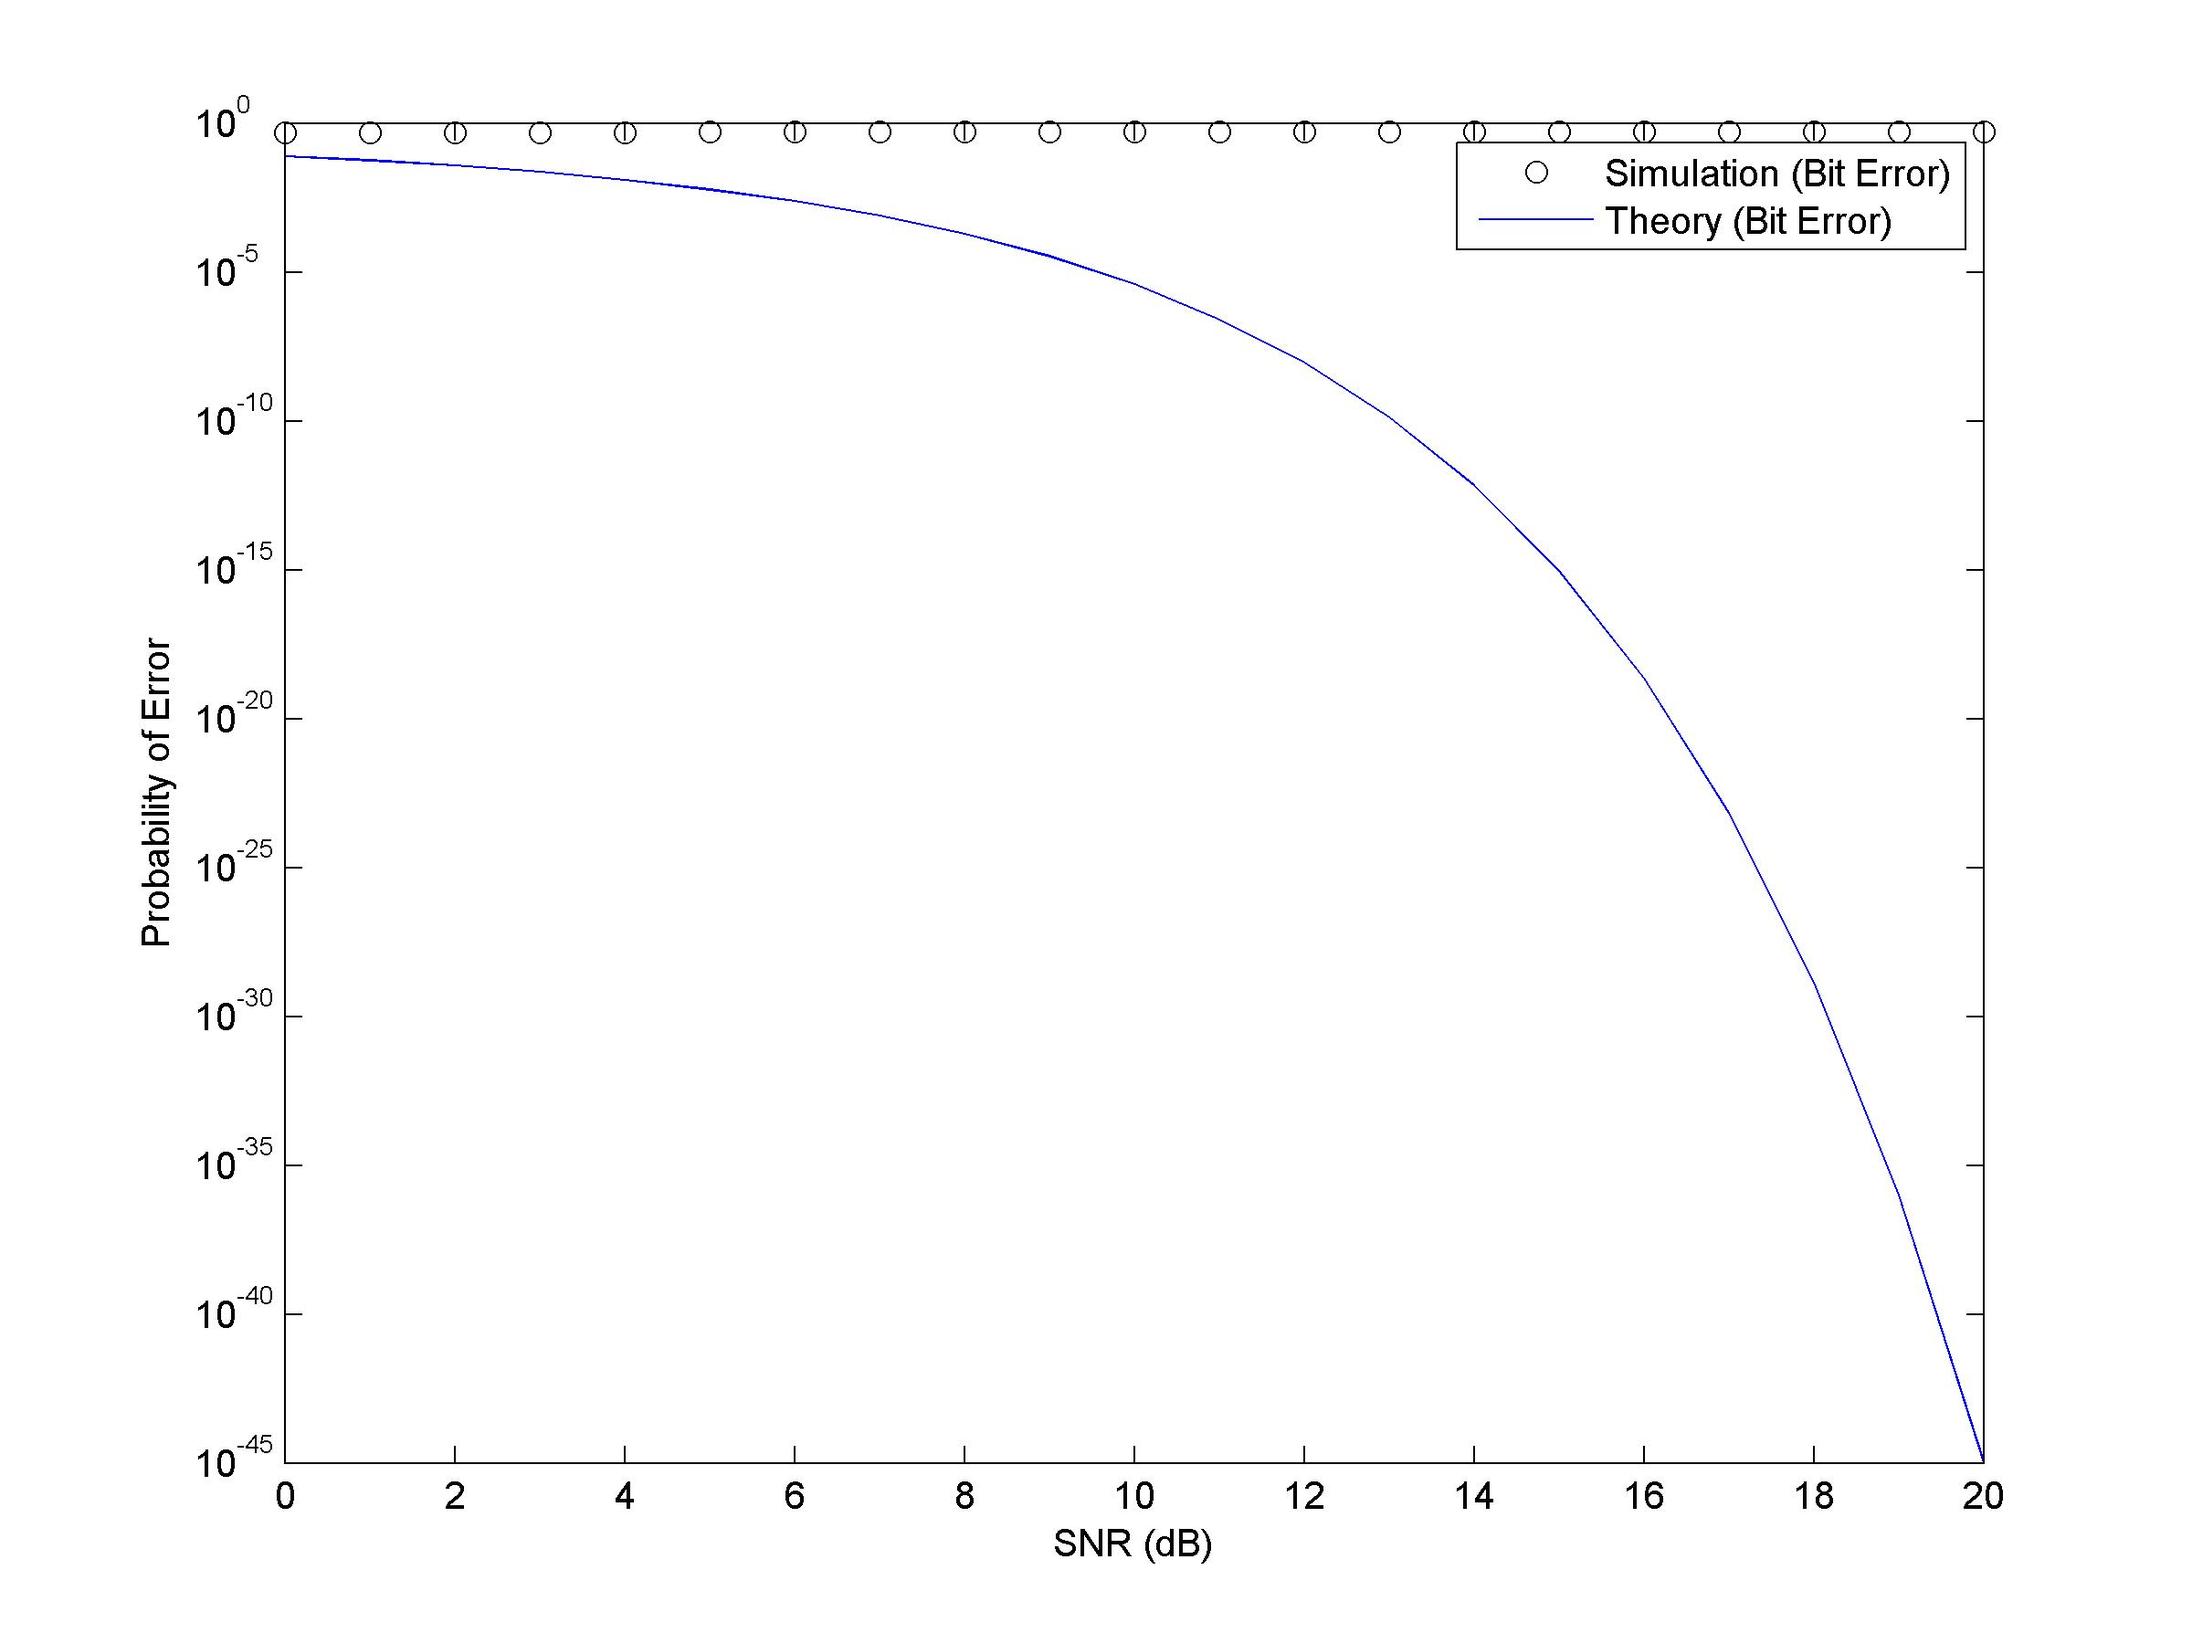
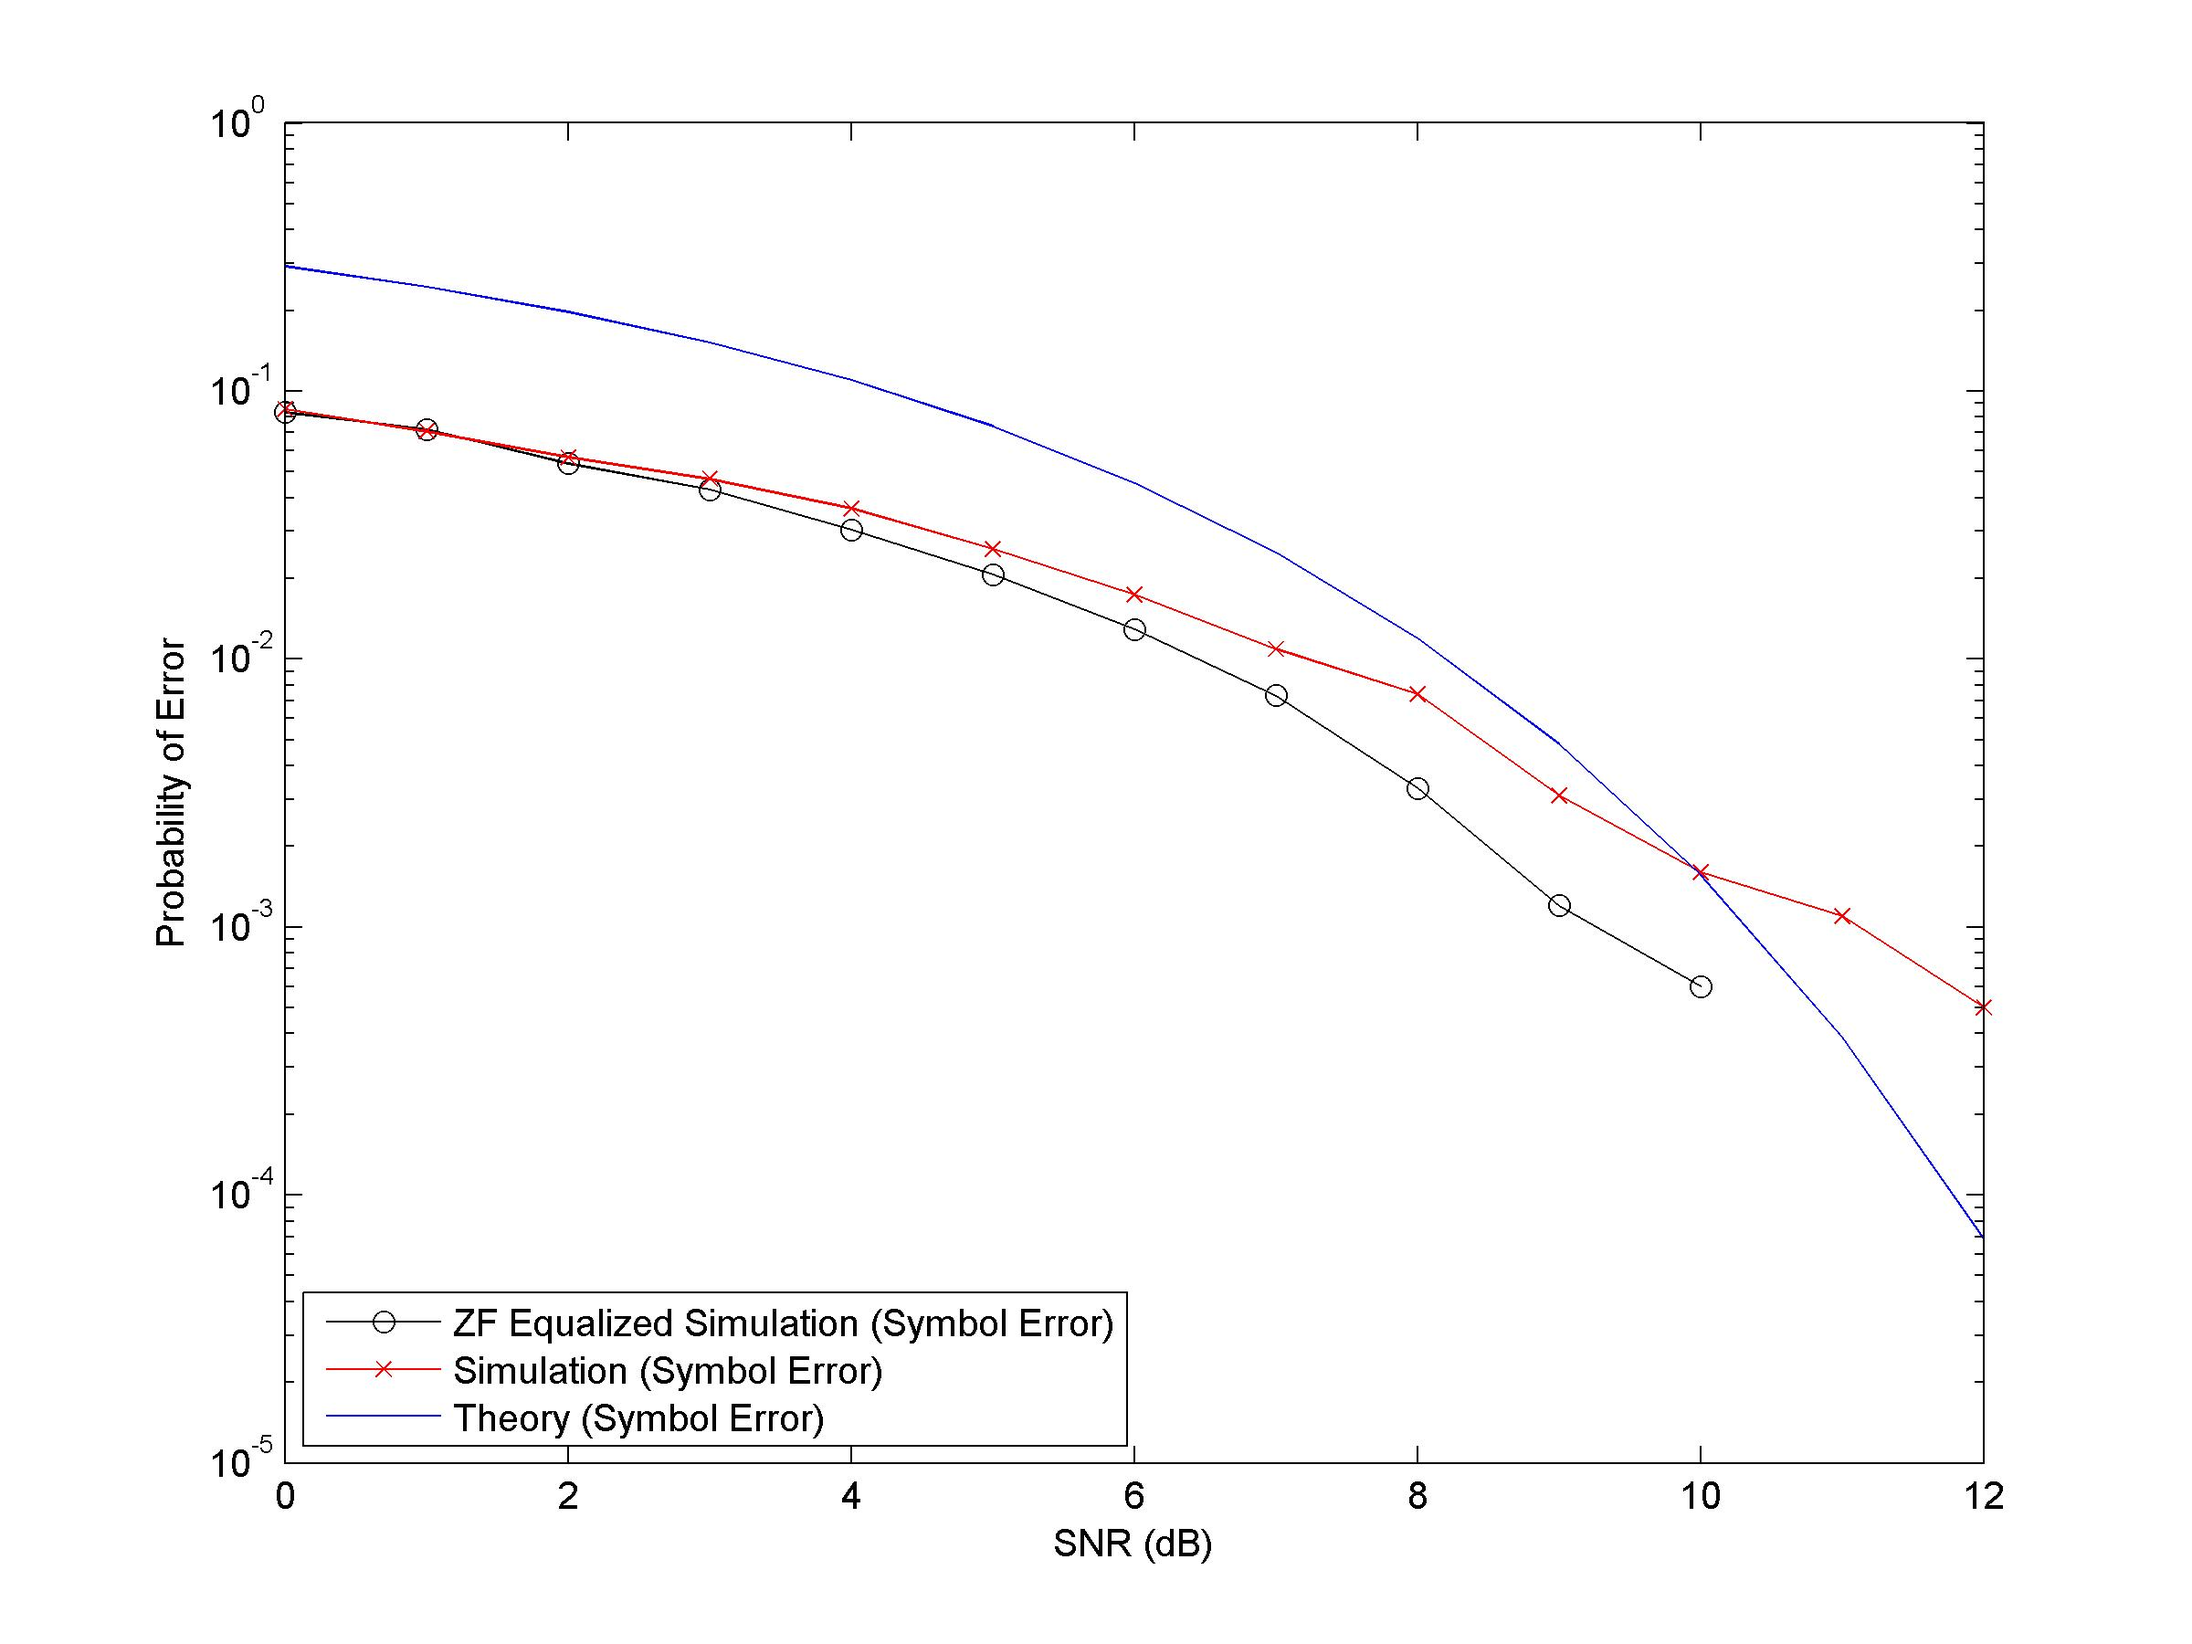
-

diff --git a/step5/step5_sim_qpsk.m b/step5/step5_sim_qpsk.m
@@ -11,9 +11,10 @@ B = rollOffFactor*(1/(2*Ts)) + 1/(2*Ts); %srrc pulse bandwidth
 srrc = sqrt_raised_cosine(overSampleSize,rollOffFactor,400,Ts);
 SNR = 0:20; %SNR levels where the system will be simulated
 EbN0 = SNR2EbN0(SNR,2,B); %convert given SNR levels to EbNo
-N= 10000;  %number of bits generated
+N= 20000;  %number of bits generated
 t=0:1/overSampleSize:N/2;
 k = 2;  % bits per symbol
+t_channel=0:1/overSampleSize:N;
 bits = random_bit_generator(N);  %random bit generation
 [quadrature, inphase] = qpsk_mod(bits,N/k);  %mapping to symbols
 
@@ -37,33 +38,60 @@ for k=1:3
     num = 1;
     if k==1
         %channel 1
-        transmit_channel = channel_1(transmit,overSampleSize);
+         h = [1 0 0 0 0.25];
+        transmit_channel = bandlimited_channel(h,transmit);
+        transmit_channel = transmit_channel(1:length(transmit_channel)-4);
         figure(1)
-        plot(t(1:100),real(transmit_channel(1:100)),'g');
+        plot(t_channel(1:100),real(transmit_channel(1:100)),'g');
+        
+        %channel equalizers
+        %ZF
+        L = 9; % number of taps
+        c = ZFEqualizer(h,L,overSampleSize);   
     elseif k==2
-         %channel 2
-         transmit_channel = channel_2(transmit,overSampleSize);
+%channel 2
+        h=[1 0 0 0 -0.25 0 0 0 0.125];
+        transmit_channel = bandlimited_channel(h,transmit);
+        transmit_channel = transmit_channel(1:length(transmit_channel)-8);
         figure(1)
-        plot(t(1:100),real(transmit_channel(1:100)),'-ko');
+        plot(t_channel(1:100),real(transmit_channel(1:100)),'-ko');
+        
+        %channel equalizers
+        %ZF
+        L = 9; % number of taps
+        c = ZFEqualizer(h,L,overSampleSize);
     else
-       %channel 3
-        transmit_channel = channel_3(transmit,overSampleSize);
+  %channel 3
+        h=[0.1 0 0 0 1 0 0 0 -0.25];
+        transmit_channel = bandlimited_channel(h,transmit);
+        transmit_channel = transmit_channel(5:length(transmit_channel)-4);
         figure(1)
-        plot(t(1:100),real(transmit_channel(1:100)),'-bx');
+        plot(t_channel(1:100),real(transmit_channel(1:100)),'-bx');
+        
+        %channel equalizers
+        %ZF
+        L = 9; % number of taps
+        c = ZFEqualizer(h,L,overSampleSize);
     end
     
     f = figure;
     
     for i=1:length(SNR)
+          
         %pass the signals to be transmitted through awgn channel
-        received = awgn_complex_channel(transmit_channel,SNR(i),S);        
+        received = awgn_complex_channel(transmit_channel,SNR(i),S);
+
+        %equalize channel
+        received_equalized = conv(received,c);
+        
         %pass the received signal through the matched filter for optimal
         %detection
-        matched_output = conv(received,srrc,'same');
-        
+        matched_output = conv(received_equalized,srrc,'same');
+        matched_output_ne = conv(received,srrc,'same');
         %pass the matched filter output through the sampler to obtain symbols
         %at each symbol period
         sampled = sampler(matched_output,overSampleSize,Ts);
+        sampled_ne = sampler(matched_output_ne,overSampleSize,Ts);
         
         %constellation plot
         if (SNR(i) == 3) || SNR(i) == 6 || SNR(i) == 10 || ...
@@ -75,7 +103,7 @@ for k=1:3
             line(xlim,[0 0], 'Color', 'k');
             line([0 0],ylim,'Color', 'k');
             xlabel('In-Phase'),ylabel('Quadrature-Phase');
-            title(['64QAM Constellation with'...
+            title(['QPSK Constellation with'...
                 sprintf('\nSNR = %d dB',SNR(i))]);
             axis([xlim, ylim]);
             num = num+1;
@@ -83,10 +111,12 @@ for k=1:3
         
         %pass the received symbols through ML-decision box
         output_bits = qpsk_demod(real(sampled),imag(sampled));
-        
+        output_bits_ne = qpsk_demod(real(sampled_ne),imag(sampled_ne));
         %SER calculation - drop first symbol
         ser(i) = SER(bits(3:N),output_bits(3:N),k);
+        ser_ne(i) = SER(bits(3:N),output_bits_ne(3:N),k);
         ber(i) = BER(bits(3:N),output_bits(3:N));
+        ber_ne(i) =  BER(bits(3:N),output_bits_ne(3:N));
         %SER theoretical calculation
         a = 10^(EbN0(i)/10);
         ser_theo(i) = 2*qfunc(sqrt(2*a))-qfunc(sqrt(2*a))^2;
@@ -97,16 +127,14 @@ for k=1:3
     print(f,'-djpeg','-r300','qpConst');
     
     %plot theoretical/simulation BER vs SNR graph
-    g=figure;
-    semilogy(SNR,ser,'ko');
+    h=figure;
+    semilogy(SNR(1:20),ser(1:20), '-ko');
     hold on;
-    semilogy(SNR,ber,'bo');
-    semilogy(SNR,ser_theo, 'b');
-    semilogy(SNR,ber_theo,'g');
+    semilogy(SNR(1:20),ser_ne(1:20), '-rx');
+    semilogy(SNR(1:20),ser_theo(1:20), 'b');
     ylabel('Probability of Error');
-    xlabel('Signal To Noise (dB)');
-    legend('Simulation(Symbol Error)','Simulation(Bit Error)','Theory (Symbol Error)',...
-        'Theory (Bit Error)','Location','SouthWest');
+    xlabel('SNR (dB)');
+    legend('ZF Equalized Simulation (Symbol Error)', 'Simulation (Symbol Error)','Theory (Symbol Error)','Location','SouthWest');
     % save the BER graph
-    print(g,'-djpeg','-r300','qpSNR');
+    print(h,'-djpeg','-r300','bpSNR');
 end

diff --git a/step5/step5_sim_bpsk.m b/step5/step5_sim_bpsk.m
@@ -2,11 +2,9 @@
 close all;
 clearvars
 %Start by setting the initial variables
-N= 5000; %number of bits generated
+N= 10000; %number of bits generated
 overSampleSize = 4;
-t_channel1=0:1/overSampleSize:N;
-t_channel2=0:1/overSampleSize:N+2;
-t_channel3=-1:1/overSampleSize:N+1;
+t_channel=0:1/overSampleSize:N;
 
 rollOffFactor = 0.25;
 Ts = 1; %Symbol period
@@ -25,53 +23,49 @@ sym = bpsk_mod(bits,N/k);%mapping to symbols
 impulse_train = impulse_train(overSampleSize,N/k,sym);
 transmit = conv(impulse_train,srrc,'same');
 figure(1);
-plot(t_channel1(1:100),real(transmit(1:100)),'r');
+plot(t_channel(1:100),real(transmit(1:100)),'r');
 hold on
 
 for k=1:3
-
-
     %loop this section for the generation of BER vs SNR graphs and
     %constellation plots
     num = 1;
-
+    k=2;
     if k==1
         %channel 1
         h = [1 0 0 0 0.25];
         transmit_channel = bandlimited_channel(h,transmit);
         figure(1)
-        plot(t_channel1(1:100),real(transmit_channel(1:100)),'g');
+        plot(t_channel(1:100),real(transmit_channel(1:100)),'g');
         
         %channel equalizers
         %ZF
-        L = 2; % number of taps
-        c = ZFEqualizer(h,L,overSampleSize);
-        
-        
-        
+        L = 4; % number of taps
+        c = ZFEqualizer(h,L,overSampleSize);   
     elseif k==2
         %channel 2
         h=[1 0 0 0 -0.25 0 0 0 0.125];
         transmit_channel = bandlimited_channel(h,transmit);
+        transmit_channel = transmit_channel(1:length(transmit_channel)-8);
         figure(1)
-        plot(t_channel2(1:100),real(transmit_channel(1:100)),'-ko');
+        plot(t_channel(1:100),real(transmit_channel(1:100)),'-ko');
         
         %channel equalizers
         %ZF
         L = 5; % number of taps
-        c = ZFEqualizer(h,L);
+        c = ZFEqualizer(h,L,overSampleSize);
     else
        %channel 3
-       h=[0.1 0 0 0 1 0 0 0 -0.25];
+        h=[0.1 0 0 0 1 0 0 0 -0.25];
         transmit_channel = bandlimited_channel(h,transmit);
+        transmit_channel = transmit_channel(5:length(transmit_channel)-4);
         figure(1)
-        plot(t_channel3(5:105),real(transmit_channel(5:105)),'-bx');
+        plot(t_channel(1:100),real(transmit_channel(1:100)),'-bx');
         
         %channel equalizers
         %ZF
         L = 5; % number of taps
-        c = ZFEqualizer(h,L);
-        
+        c = ZFEqualizer(h,L,overSampleSize);
     end
     
     f = figure;
@@ -87,12 +81,13 @@ for k=1:3
         %pass the received signal through the matched filter for optimal
         %detection
         matched_output = conv(received_equalized,srrc,'same');
-
+        matched_output_ne = conv(received,srrc,'same');
         %pass the matched filter output through the sampler to obtain symbols
         %at each symbol period
         sampled = sampler(matched_output,overSampleSize,Ts);
- 
-        % constellation
+        sampled_ne = sampler(matched_output_ne,overSampleSize,Ts);
+        
+        % constellation equalized
         if (SNR(i) == 3) || SNR(i) == 6 || SNR(i) == 10 || ...
                 SNR(i) == 15 || SNR(i) == 20
             subplot(2,3,num);
@@ -108,12 +103,12 @@ for k=1:3
             num = num+1;
         end
         
-        
         %pass the received symbols through ML-decision box
         output_bits = bpsk_demod(sampled);
-        
+        output_bits_ne = bpsk_demod(sampled_ne);
         %BER calculation - drop the first bit
         ber(i) = BER(bits(2:N),output_bits(2:N));
+        ber_ne(i) = BER(bits(2:N),output_bits_ne(2:N));
         %BER theoretical calculation
         a = 10^(EbN0(i)/10);
         ber_theo(i) = qfunc(sqrt(2*a));
@@ -123,12 +118,13 @@ for k=1:3
     
     %plot theoretical/simulation BER vs SNR graph
     h=figure;
-    semilogy(SNR,ber, 'ko');
+    semilogy(SNR(1:13),ber(1:13), '-ko');
     hold on;
-    semilogy(SNR,ber_theo, 'b');
+    semilogy(SNR(1:13),ber_ne(1:13), '-rx');
+    semilogy(SNR(1:13),ber_theo(1:13), 'b');
     ylabel('Probability of Error');
     xlabel('SNR (dB)');
-    legend('Simulation (Bit Error)','Theory (Bit Error)');
+    legend('ZF Equalized Simulation (Bit Error)', 'Simulation (Bit Error)','Theory (Bit Error)','Location','SouthWest');
     % save the BER graph
     print(h,'-djpeg','-r300','bpSNR');
 end

diff --git a/step5/ZFEqualizer.m b/step5/ZFEqualizer.m
@@ -3,8 +3,11 @@ function [c] = ZFEqualizer(h,L,overSampling)
 %   Detailed explanation goes here
 h_coeff = downsample(h,overSampling);
 N = length(h_coeff);
-hM = toeplitz([h_coeff([N-1:end]) zeros(1,L-length(h_coeff([N-1:end])))],...
-                [ h_coeff([N-1:-1:1]) zeros(1,L-length(h_coeff([N-1:-1:1])))]);
+
+
+hM = toeplitz([h_coeff(end) zeros(1,L-1)],...
+                [ h_coeff(N:-1:1) zeros(1,N+1)]);
+            
 e  = zeros(1,L);
 e(ceil(L/2)) = 1;
 c  = [pinv(hM)*e.'].';

diff --git a/step5/bandlimited_channel.m b/step5/bandlimited_channel.m
@@ -2,6 +2,5 @@ function [ output] = bandlimited_channel(h,data)
 %BANDLIMITED_CHANNEL Summary of this function goes here
 %   Detailed explanation goes here
 output = conv(data,h);
-
 end
 
